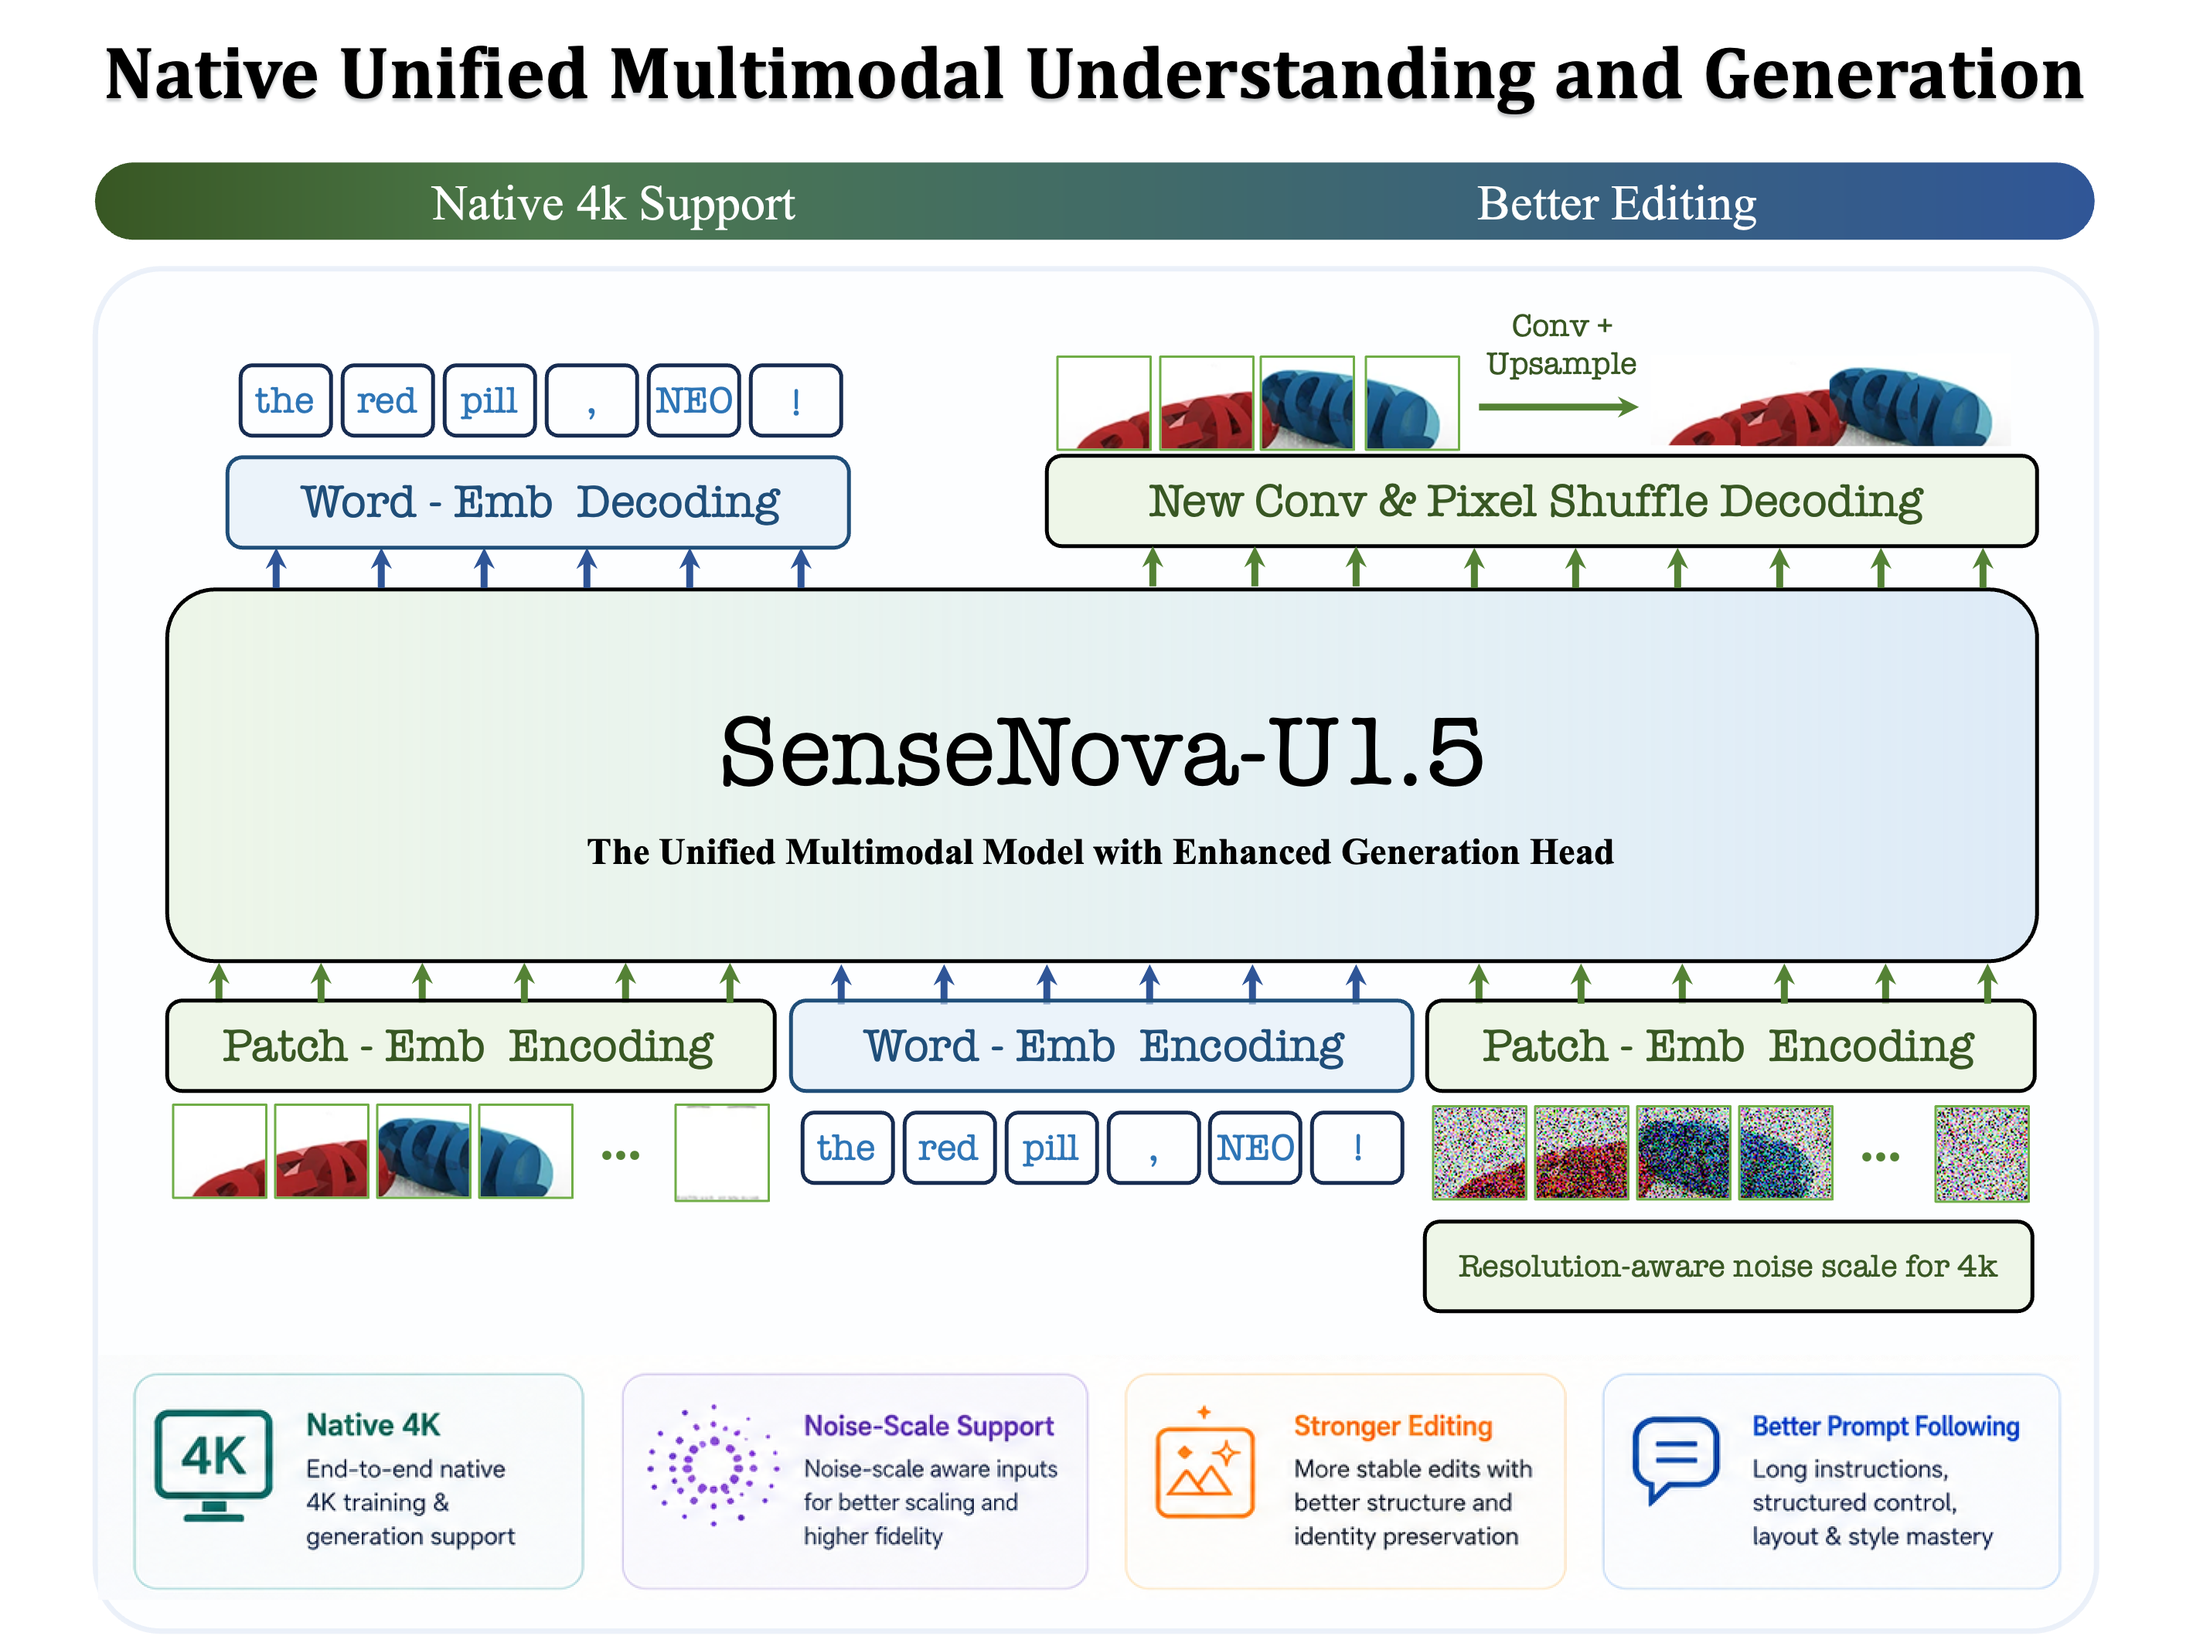
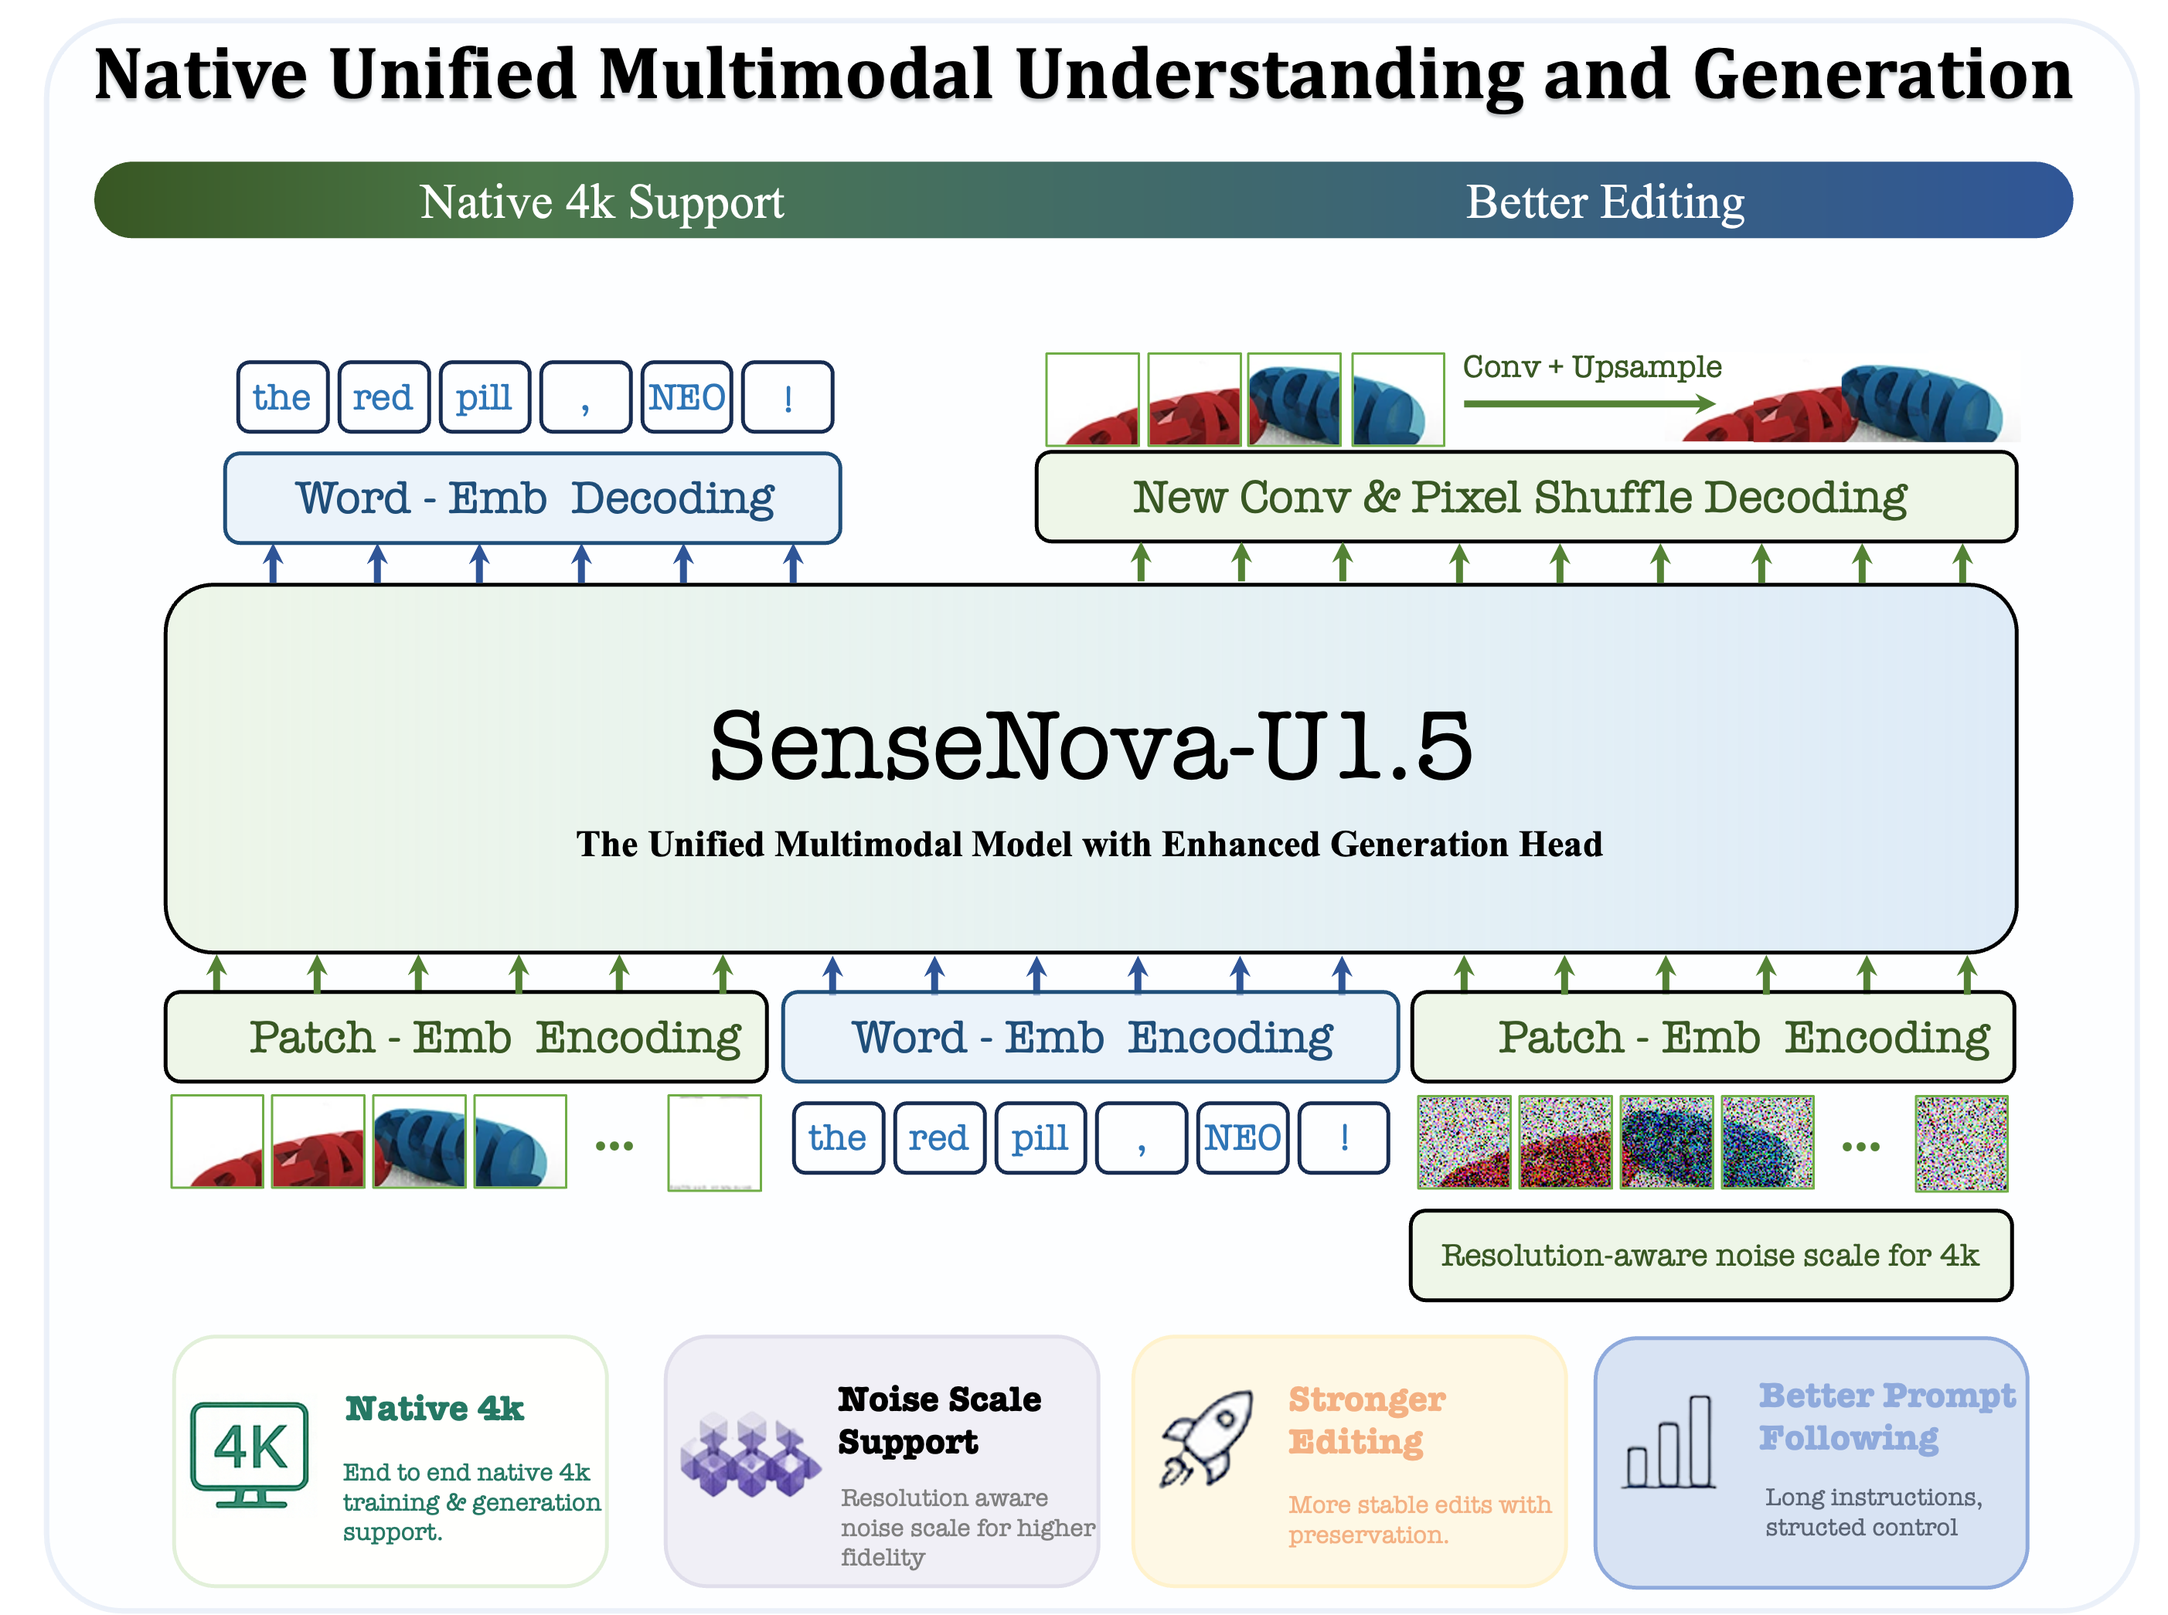
add u1.5_preview benchmark & modify fig visualization

diff --git a/docs/u1.5_preview.md b/docs/u1.5_preview.md
@@ -134,21 +134,86 @@ Based on these changes, the primary capabilities observed in U1.5 Preview are:
 - Precise editing guided by regions, boxes, or markers.
 
 ### Benchmark Performance
-#### Qwen-Image-Bench (T2I)
-| Model |  EN &nbsp;↑ | ZH &nbsp;↑ | Average &nbsp;↑ |
-|---|---:|---:|---:|
-| GLM Image | 47.86 | 48.19 | 48.03 |
-| Qwen Image | 48.48 | 49.23 | 48.86 |
-| HunyuanImage 3.0 | 51.35 | 50.81 | 51.08 |
-| Qwen Image 2512 | 51.32 | 52.06 | 51.69 |
-| GPT Image 1 | 54.24 | 54.07 | 54.16 |
-| Qwen Image 2* | 55.69 | 55.63 | 55.66 |
-| GPT Image 2 | 65.23 | 64.69 | 64.96 |
-| **U1** | **48.28** | **45.99** | **47.14** |
-| **U1.5-Preview** | **49.93** | **50.25** | **50.09** |
-| **U1.5-Preview†** | **55.17** | **55.22** | **55.20** |
 
-† With Prompt Enhance
+#### Image Generation Benchmarks (T2I)
+
+<table>
+  <thead>
+    <tr>
+      <th rowspan="2" align="center">Model</th>
+      <th colspan="3"><div align="center">Qwen-Image-Bench</div></th>
+    </tr>
+    <tr>
+      <th><div align="center">EN&nbsp;↑</div></th>
+      <th><div align="center">ZH&nbsp;↑</div></th>
+      <th><div align="center">Average&nbsp;↑</div></th>
+    </tr>
+  </thead>
+  <tbody>
+    <tr><td>GLM Image</td><td align="center">47.86</td><td align="center">48.19</td><td align="center">48.03</td></tr>
+    <tr><td>Qwen Image</td><td align="center">48.48</td><td align="center">49.23</td><td align="center">48.86</td></tr>
+    <tr><td>HunyuanImage 3.0</td><td align="center">51.35</td><td align="center">50.81</td><td align="center">51.08</td></tr>
+    <tr><td>Qwen Image 2512</td><td align="center">51.32</td><td align="center">52.06</td><td align="center">51.69</td></tr>
+    <tr><td>GPT Image 1</td><td align="center">54.24</td><td align="center">54.07</td><td align="center">54.16</td></tr>
+    <tr><td>Qwen Image 2*</td><td align="center">55.69</td><td align="center">55.63</td><td align="center">55.66</td></tr>
+    <tr><td>GPT Image 2</td><td align="center">65.23</td><td align="center">64.69</td><td align="center">64.96</td></tr>
+    <tr><td><b>U1</b></td><td align="center"><b>48.28</b></td><td align="center"><b>45.99</b></td><td align="center"><b>47.14</b></td></tr>
+    <tr><td><b>U1.5-Preview</b></td><td align="center"><b>49.93</b></td><td align="center"><b>50.25</b></td><td align="center"><b>50.09</b></td></tr>
+    <tr><td><b>U1.5-Preview&dagger;</b></td><td align="center"><b>55.17</b></td><td align="center"><b>55.22</b></td><td align="center"><b>55.20</b></td></tr>
+  </tbody>
+</table>
+<sub>Note: Qwen Image 2* denotes evaluation results from our own implementation; U1.5-Preview&dagger; denotes results using Prompt Enhance.</sub>
+
+#### Image Editing Benchmarks (IT2I)
+
+<table>
+  <thead>
+    <tr>
+      <th rowspan="2" align="center">Model</th>
+      <th><div align="center">ImgEdit-Bench</div></th>
+      <th><div align="center">GEdit-Bench</div></th>
+      <th colspan="2"><div align="center">WeEdit</div></th>
+    </tr>
+    <tr>
+      <th><div align="center">Overall&nbsp;↑</div></th>
+      <th><div align="center">EN G_O / CN G_O&nbsp;↑</div></th>
+      <th><div align="center">IA / TC / BP&nbsp;↑</div></th>
+      <th><div align="center">Average&nbsp;↑</div></th>
+    </tr>
+  </thead>
+  <tbody>
+    <tr>
+      <td>Qwen-Image-Edit-2511</td><td align="center">4.51</td><td align="center">7.877 / 7.819</td><td align="center">3.180 / 3.930 / 4.630</td><td align="center">3.913</td>
+    </tr>
+    <tr>
+      <td>Qwen-Image-2</td><td align="center">4.28</td><td align="center">8.369 / 8.348</td><td align="center">5.044 / 6.079 / 5.680</td><td align="center">5.601</td>
+    </tr>
+    <tr>
+      <td>FireRed-Image-Edit</td><td align="center">4.56</td><td align="center">7.943 / 7.887</td><td align="center">4.150 / 6.330 / 7.140</td><td align="center">5.873</td>
+    </tr>
+    <tr>
+      <td>LongCat-Image-Edit</td><td align="center">4.45</td><td align="center">7.748 / 7.731</td><td align="center">3.390 / 5.590 / 6.710</td><td align="center">5.230</td>
+    </tr>
+    <tr>
+      <td>HY-image-3-instruct</td><td align="center">—</td><td align="center">—</td><td align="center">4.160 / 5.990 / 7.030</td><td align="center">5.727</td>
+    </tr>
+    <tr>
+      <td>Nano-Banana</td><td align="center">4.29</td><td align="center">7.291 / 7.399</td><td align="center">3.920 / 7.140 / 7.800</td><td align="center">6.287</td>
+    </tr>
+    <tr>
+      <td>Nano-Banana-Pro</td><td align="center">4.37</td><td align="center">7.738 / 7.799</td><td align="center">8.580 / 9.100 / 8.850</td><td align="center">8.843</td>
+    </tr>
+    <tr>
+      <td>GPT-Image-1.5</td><td align="center">—</td><td align="center">—</td><td align="center">6.520 / 7.780 / 6.150</td><td align="center">6.817</td>
+    </tr>
+    <tr>
+      <td>U1</td><td align="center"><b>3.90</b></td><td align="center"><b>7.470 / 7.420</b></td><td align="center"><b>5.729 / 6.604 / 7.157</b></td><td align="center"><b>6.497</b></td>
+    </tr>
+    <tr>
+      <td><b>U1.5-Preview</b></td><td align="center"><b>4.37</b></td><td align="center"><b>8.172 / 8.051</b></td><td align="center"><b>6.532 / 7.271 / 6.752</b></td><td align="center"><b>6.852</b></td>
+    </tr>
+  </tbody>
+</table>
 
 ### Generalization Beyond the Training Objective: Long and Structured Prompts
 
@@ -789,7 +854,7 @@ localized text and object edits.
 <table>
   <thead>
     <tr>
-      <th width="14.28%" align="center">Original</th>
+      <th width="14.28%" align="center">Origin</th>
       <th width="14.28%" align="center">Reversed</th>
       <th width="14.28%" align="center">V0</th>
       <th width="14.28%" align="center">V1</th>
